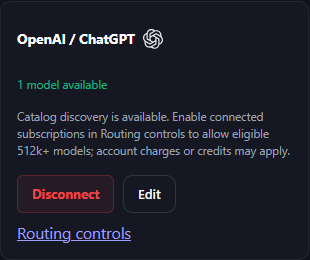
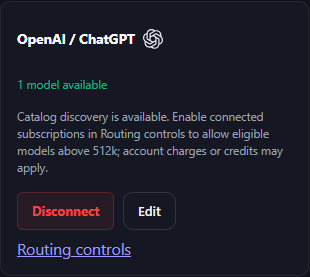
Allow general model fallback with context strictly above 512k

diff --git a/src/free_claude_code/api/admin_static/free_pool.html b/src/free_claude_code/api/admin_static/free_pool.html
@@ -6,7 +6,7 @@
 </style></head><body>
 <a href="/admin">← Back to Admin and provider keys</a>
 <h1>Routing controls</h1>
-<p>Choose allowed billing categories and fallback priority. Every route requires known tool support, at least 512,000 context tokens and room for your request. Failed providers cool down; the next eligible provider takes over before output starts.</p>
+<p>Choose allowed billing categories and fallback priority. Every route requires known tool support, more than 512,000 context tokens and room for your request. Failed providers cool down; the next eligible provider takes over before output starts.</p>
 <section class="card" aria-labelledby="activityTitle" style="margin:20px 0">
 <h2 id="activityTitle">Actual gateway route</h2>
 <h3>Last successful route</h3><p id="lastRoute">No successful request recorded since server restart.</p>
@@ -28,7 +28,7 @@
 <section class="card" id="routingPolicy" aria-labelledby="policyTitle">
 <h2 id="policyTitle">Paid access and priority</h2>
 <label style="max-width:none"><input type="checkbox" id="allowSubscriptions">Allow connected subscriptions (ChatGPT / GitHub Copilot)</label>
-<p>Uses the connected account's allowance or purchased credits. A successful login does not guarantee a 512k+ model.</p>
+<p>Uses the connected account's allowance or purchased credits. A successful login does not guarantee a model above 512k.</p>
 <label style="max-width:none"><input type="checkbox" id="allowPaidApi">Allow paid API routes</label>
 <p>Requests can incur provider charges. Set spending limits with each provider; this gateway has no monetary budget cap. These switches do not purchase credits or bypass account limits.</p>
 <label>Billing order <select id="billingOrder">
@@ -58,7 +58,7 @@
 <p id="note"></p><footer>Catalog checks do not guarantee availability or model quality. Each service controls its own quotas and data policy. Credentials are entered in Providers and stored using the installation’s protected storage. Refreshing this page does not reset a provider’s quota.</footer>
 <script>
 const el=id=>document.getElementById(id);
-const labels={MISSING_KEY:'Add API key',CONFIRM_FREE_ACCOUNT:'Confirm free account',ELIGIBLE:'Eligible',COOLDOWN:'Cooling down',NO_ELIGIBLE_MODELS:'No eligible 512k+ models',DISCOVERY_REJECTED:'Catalog access rejected',DISCOVERY_UNAVAILABLE:'Catalog unavailable',DISABLED:'Billing category disabled',CONNECT_ACCOUNT:'Connect account',EXCLUDED:'Excluded by your preference'};
+const labels={MISSING_KEY:'Add API key',CONFIRM_FREE_ACCOUNT:'Confirm free account',ELIGIBLE:'Eligible',COOLDOWN:'Cooling down',NO_ELIGIBLE_MODELS:'No eligible models above 512k',DISCOVERY_REJECTED:'Catalog access rejected',DISCOVERY_UNAVAILABLE:'Catalog unavailable',DISABLED:'Billing category disabled',CONNECT_ACCOUNT:'Connect account',EXCLUDED:'Excluded by your preference'};
 function node(tag,text){const n=document.createElement(tag);n.textContent=text;return n}
 const healthLabels={VERIFIED:'Verified recently',FAILED:'Failed / blocked',UNTESTED:'Not inference-tested',STALE:'Check expired',RECHECK_DUE:'Recheck due'};
 function healthBadge(health={state:'UNTESTED'}){const s=health.state||'UNTESTED',n=node('span',healthLabels[s]||s);n.className='health health-'+(s==='VERIFIED'?'green':s==='FAILED'?'red':'amber');return n}
@@ -98,7 +98,7 @@ function render(data){
   if(p.http_status)state.append(node('small','HTTP '+p.http_status));
   if(p.message)state.append(node('small',p.message));
   if(p.coverage==='PARTIAL')state.append(node('small','Partial catalog coverage'));
-  if(p.below_context_minimum)state.append(node('small',p.below_context_minimum+' catalog models have default context below 512,000. Experimental maxima are not used.'));
+  if(p.below_context_minimum)state.append(node('small',p.below_context_minimum+' catalog models have default context at or below 512,000. Experimental maxima are not used.'));
   if((p.model_ids||[]).length){
    const d=node('details','');d.append(node('summary','Show models'));
    for(const m of p.model_details||p.model_ids.map(id=>({id}))){
@@ -117,7 +117,7 @@ function render(data){
    setup.append(label,node('small','Without this acknowledgment, the key is considered only when paid APIs are enabled. Account billing is not independently verified.'));
   }else if(p.mode==='subscription')setup.append(node('small','Connect this account in Providers and enable subscriptions above. Supports Messages and Responses; Chat Completions uses API-key routes.'));
   else if(p.mode==='paid_api')setup.append(node('small','Save an API key in Providers and enable paid APIs above. Account charges or credits may apply.'));
-  else setup.append(node('small',p.mode==='local'?'Load a local tool-capable model with at least 512,000 context tokens.':p.state==='MISSING_KEY'?'Add your key in Providers. Models are selected automatically.':'Models are separated by free or paid eligibility and your saved routing policy.'));
+  else setup.append(node('small',p.mode==='local'?'Load a local tool-capable model with more than 512,000 context tokens.':p.state==='MISSING_KEY'?'Add your key in Providers. Models are selected automatically.':'Models are separated by free or paid eligibility and your saved routing policy.'));
   const a=node('a','Provider documentation');a.href=p.source;a.target='_blank';a.rel='noopener noreferrer';setup.append(document.createElement('br'),a);
   tr.append(name,state,models,setup);el('rows').append(tr);
  }

diff --git a/src/free_claude_code/api/admin_static/admin.js b/src/free_claude_code/api/admin_static/admin.js
@@ -397,9 +397,9 @@ function updateProviderCard(provider) {
     const paidApi = provider.automatic_routing_policy === 'paid_api';
     const enabled = subscription ? state.config.allow_subscription_models : paidApi ? state.config.allow_paid_api_models : false;
     policyNote.textContent = enabled
-      ? 'Allowed for automatic routing when a tool-capable 512k+ model and account capacity are available. Account charges or credits may apply.'
+      ? 'Allowed for automatic routing when a tool-capable model above 512k and account capacity are available. Account charges or credits may apply.'
       : subscription || paidApi
-        ? 'Catalog discovery is available. Enable ' + (subscription ? 'connected subscriptions' : 'paid APIs') + ' in Routing controls to allow eligible 512k+ models; account charges or credits may apply.'
+        ? 'Catalog discovery is available. Enable ' + (subscription ? 'connected subscriptions' : 'paid APIs') + ' in Routing controls to allow eligible models above 512k; account charges or credits may apply.'
         : 'Catalog discovery only. This provider is not included in automatic routing.';
     card.insertBefore(policyNote, actions);
     if (subscription || paidApi) {

diff --git a/src/free_claude_code/application/free_pool.py b/src/free_claude_code/application/free_pool.py
@@ -15,6 +15,7 @@ from urllib.parse import urlencode, urljoin, urlsplit
 import httpx
 
 from free_claude_code.application.route_health import VERIFIED_TTL_SECONDS, RouteHealth
+from free_claude_code.config.free_mode import MIN_CONTEXT_TOKENS
 from free_claude_code.config.free_model_preferences import (
     FREE_MODEL_FAMILIES,
     free_model_family,
@@ -44,7 +45,6 @@ from free_claude_code.core.private_storage import (
 )
 
 CATALOG_TTL = 300
-MIN_CONTEXT_TOKENS = 512000
 MAX_CATALOG_BYTES = 16 * 1024 * 1024
 
 
@@ -889,7 +889,7 @@ class AutomaticFreePool:
                     or settings.allow_subscription_models
                     else "free"
                 )
-                + " provider with at least 512,000 context tokens is currently available for this request."
+                + " provider with more than 512,000 context tokens is currently available for this request."
                 + detail
                 + self.availability_summary(settings)
                 + " Open Admin > Routing controls for credentials, priority, capabilities and cooldowns."
@@ -936,7 +936,7 @@ class AutomaticFreePool:
             if reasons:
                 details.append(provider + ": " + ", ".join(sorted(reasons)))
             elif report.get("below_context_minimum"):
-                details.append(provider + ": default context below 512,000")
+                details.append(provider + ": default context at or below 512,000")
             elif report["state"] == "CONFIRM_FREE_ACCOUNT":
                 details.append(provider + ": free-account confirmation missing")
             elif report["state"].startswith("DISCOVERY_"):
@@ -1189,5 +1189,5 @@ class AutomaticFreePool:
             "last_success_details": self._last_success_details,
             "latest_attempt": self._last_attempt,
             "providers": rows,
-            "note": "Eligible means catalog and enabled billing-policy checks passed; it is not a successful inference guarantee. Free-account tiers rely on your acknowledgment. Paid APIs and subscriptions may consume allowance or purchased credits. This gateway has no monetary budget cap; configure spending controls with each provider. Every route retains the 512,000-token minimum.",
+            "note": "Eligible means catalog and enabled billing-policy checks passed; it is not a successful inference guarantee. Free-account tiers rely on your acknowledgment. Paid APIs and subscriptions may consume allowance or purchased credits. This gateway has no monetary budget cap; configure spending controls with each provider. Every route requires more than 512,000 context tokens.",
         }

diff --git a/security_tests/test_route_selection.py b/security_tests/test_route_selection.py
@@ -126,6 +126,67 @@ def app_with_storage():
     return app, store, settings
 
 
+@pytest.mark.asyncio
+@pytest.mark.parametrize(
+    "wire,provider,billing",
+    [
+        ("messages", "open_router", "zero_price"),
+        ("responses", "open_router", "zero_price"),
+        ("chat", "open_router", "zero_price"),
+        ("messages", "deepseek", "paid_api"),
+        ("responses", "deepseek", "paid_api"),
+        ("chat", "deepseek", "paid_api"),
+        ("messages", "openai", "subscription"),
+        ("responses", "openai", "subscription"),
+    ],
+)
+@pytest.mark.parametrize("preferred_context", [None, 512000])
+async def test_unpreferred_model_falls_back_only_above_512k(
+    wire, provider, billing, preferred_context
+):
+    pool = AutomaticFreePool()
+    pool.refresh = AsyncMock()
+    preferred = model(
+        provider, "deepseek-v4.1-flash", billing, context=preferred_context
+    )
+    available = model(provider, "another-catalog-model", billing, context=512001)
+    pool._catalog = (preferred, available)
+    settings = Settings(
+        allow_paid_api_models=True,
+        allow_subscription_models=True,
+        routing_selected_provider=provider,
+        routing_selected_model=preferred.model_id,
+        routing_selected_billing=preferred.billing,
+    )
+    assert await pool.select(settings, {"_fcc_wire_api": wire}) == (available,)
+
+
+def test_manual_selection_rejects_exactly_512k_and_accepts_above_it():
+    app, store, settings = app_with_storage()
+    app.state.free_pool._catalog = (
+        model("open_router", "boundary:free", context=512000),
+        model("open_router", "above:free", context=512001),
+    )
+    headers = {
+        "Authorization": "Bearer " + settings.proxy_auth_token,
+        "X-FCC-Route-Control": "1",
+    }
+    with TestClient(
+        app, base_url="http://127.0.0.1", client=("127.0.0.1", 4321)
+    ) as client:
+        body = {"mode": "selected", "provider": "open_router", "model": "boundary:free"}
+        assert (
+            client.post("/v1/routing/selection", json=body, headers=headers).status_code
+            == 400
+        )
+        body["model"] = "above:free"
+        assert (
+            client.post("/v1/routing/selection", json=body, headers=headers).status_code
+            == 200
+        )
+    assert store.read(env={}).settings.routing_selected_model == "above:free"
+
+
 def test_cli_api_authorization_persistence_restore_auto_and_credential_preservation():
     app, store, settings = app_with_storage()
     token = settings.proxy_auth_token

diff --git a/security_tests/test_free_pool.py b/security_tests/test_free_pool.py
@@ -93,7 +93,8 @@ async def test_discovery_filters_paid_and_unknown_models_then_enforces_512k(
     )
     catalogs = [
         row("large"),
-        row("exact", 512000),
+        row("exact", 512001),
+        row("boundary-excluded", 512000),
         row("small", 511999),
         row("unknown", None),
         row("paid", pricing={"prompt": 0, "completion": 1}),
@@ -112,7 +113,7 @@ async def test_discovery_filters_paid_and_unknown_models_then_enforces_512k(
 
     monkeypatch.setattr(pool, "_fetch", fetch)
     status = await pool.status(settings)
-    assert status["minimum_context_tokens"] == 512000
+    assert status["minimum_context_tokens"] == 512001
     assert status["eligible_models"] == 2
     assert {m.model_id for m in pool._catalog} == {"large", "exact"}
     assert (
@@ -182,7 +183,7 @@ async def test_context_vision_request_fit_and_provider_diversity():
         settings, {"messages": [{"role": "user", "content": "hi"}]}
     )
     assert len(selected) == 12 and selected[1].provider_id == "gemini"
-    assert all(m.context >= 512000 for m in selected)
+    assert all(m.context > 512000 for m in selected)
     selected = await pool.select(
         settings,
         {
@@ -671,7 +672,7 @@ async def test_mistral_primary_limits_override_secondary_capabilities(monkeypatc
                 "data": [
                     {
                         "id": "primary-large",
-                        "max_context_length": 512000,
+                        "max_context_length": 512001,
                         "max_output_tokens": 4096,
                         "capabilities": {"function_calling": True},
                     },
@@ -696,6 +697,6 @@ async def test_mistral_primary_limits_override_secondary_capabilities(monkeypatc
     )
     assert (
         len(models) == 1
-        and models[0].context == 512000
+        and models[0].context == 512001
         and models[0].output_limit == 4096
     )

diff --git a/src/free_claude_code/config/admin/manifest.py b/src/free_claude_code/config/admin/manifest.py
@@ -115,7 +115,7 @@ _NON_PROVIDER_FIELDS: tuple[ConfigFieldSpec, ...] = (
         "models",
         "boolean",
         settings_attr="allow_subscription_models",
-        description="Opt in to connected ChatGPT/Copilot allowance or credits. Account limits and charges apply. Every route still requires 512k context.",
+        description="Opt in to connected ChatGPT/Copilot allowance or credits. Account limits and charges apply. Every route still requires more than 512k context.",
     ),
     ConfigFieldSpec(
         "ALLOW_PAID_API_MODELS",
@@ -137,7 +137,7 @@ _NON_PROVIDER_FIELDS: tuple[ConfigFieldSpec, ...] = (
         "Preferred free model order",
         "models",
         settings_attr="free_model_priority",
-        description="Free routes only: deepseek-v4.1-flash,kimi-k3,qwen3.8-max,glm-5.3-flash. Reorder or remove families; use none to disable preferences. Available preferred models precede provider order and last success; other eligible free models follow. Requires live free eligibility, tools and 512k+ context.",
+        description="Free routes only: deepseek-v4.1-flash,kimi-k3,qwen3.8-max,glm-5.3-flash. Reorder or remove families; use none to disable preferences. Within each health tier, preferred models precede provider order and last success; other eligible free models follow. Requires live free eligibility, tools and more than 512k context.",
     ),
     ConfigFieldSpec(
         "ROUTING_PROVIDER_PRIORITY",

diff --git a/security_tests/test_paid_routing.py b/security_tests/test_paid_routing.py
@@ -164,7 +164,7 @@ async def test_outage_is_not_misreported_as_rate_limit(monkeypatch):
         await pool.select(settings, {})
     assert error.value.status_code == 503
     assert "deepseek: temporary model outage" in error.value.message
-    assert "openai: default context below 512,000" in error.value.message
+    assert "openai: default context at or below 512,000" in error.value.message
 
 
 def model(provider, name, billing="paid_api", context=1048576):
@@ -197,7 +197,7 @@ async def test_opt_in_priority_disable_and_context_floor(monkeypatch):
         "openai",
         "open_router",
     ]
-    assert all(m.context >= 512000 for m in chosen)
+    assert all(m.context > 512000 for m in chosen)
     pool.record_success(chosen[-1])
     assert (await pool.select(settings, {}))[0].provider_id == "commandcode"
     disabled = settings.model_copy(update={"routing_disabled_providers": "commandcode"})
@@ -268,7 +268,7 @@ async def test_connected_catalog_cannot_promote_small_or_unknown_context(monkeyp
                 ),
                 ProviderModelInfo("unknown", supports_tools=True),
                 ProviderModelInfo(
-                    "large", context_window_tokens=512000, supports_tools=True
+                    "large", context_window_tokens=512001, supports_tools=True
                 ),
             )
         ),

diff --git a/security_tests/browser_smoke.py b/security_tests/browser_smoke.py
@@ -391,7 +391,7 @@ def main():
                             "available_free_routes": [],
                         }
                     ],
-                    "minimum_context_tokens": 512000,
+                    "minimum_context_tokens": 512001,
                     "refreshed_at": "2026-09-20T08:00:00+00:00",
                     "eligible_models": 2,
                     "health_ttl_seconds": 900,
@@ -401,7 +401,7 @@ def main():
                         "provider": "gemini",
                         "model": "synthetic-512k",
                         "billing": "free",
-                        "context_tokens": 512000,
+                        "context_tokens": 512001,
                         "state": "succeeded",
                         "finished_at": "2026-09-20T08:00:00+00:00",
                     },
@@ -451,7 +451,7 @@ def main():
                             "model_details": [
                                 {
                                     "id": "synthetic-512k",
-                                    "context_tokens": 512000,
+                                    "context_tokens": 512001,
                                     "billing": "free",
                                     "available": True,
                                     "health": {"state": "UNTESTED"},

diff --git a/src/free_claude_code/application/model_catalog.py b/src/free_claude_code/application/model_catalog.py
@@ -4,6 +4,7 @@ from collections.abc import Sequence
 from dataclasses import dataclass
 from typing import TYPE_CHECKING
 
+from free_claude_code.config.free_mode import MIN_CONTEXT_TOKENS
 from free_claude_code.config.model_refs import (
     configured_chat_model_refs,
     split_provider_model_ref,
@@ -55,9 +56,9 @@ def read_model_catalog(
         model = CatalogModel(
             wire_slug=ref,
             provider_model_ref=ref,
-            display_name="Automatic free models (512k+ context)",
+            display_name="Automatic models (above 512k context)",
             supports_reasoning=None,
-            context_window_tokens=512000,
+            context_window_tokens=MIN_CONTEXT_TOKENS,
             max_output_tokens=8192,
         )
         return ModelCatalog(models=(model,), default_model_id=ref)

diff --git a/src/free_claude_code/api/free_pool_routes.py b/src/free_claude_code/api/free_pool_routes.py
@@ -7,6 +7,7 @@ from fastapi import APIRouter, Depends, HTTPException, Request
 from fastapi.responses import HTMLResponse
 from pydantic import BaseModel, ConfigDict, Field, StrictBool, model_validator
 
+from free_claude_code.config.free_mode import MIN_CONTEXT_TOKENS
 from free_claude_code.core.free_accounts import FreeAccountConfirmations
 
 from .admin_security import require_loopback_admin
@@ -59,7 +60,7 @@ async def apply_route_selection(body: RouteSelectionPayload, request: Request):
             and (body.model is None or m.model_id == body.model)
             and m.tools
             and m.context is not None
-            and m.context >= 512000
+            and m.context >= MIN_CONTEXT_TOKENS
             for m in pool._catalog
         ):
             raise HTTPException(

diff --git a/tests/application/test_model_catalog.py b/tests/application/test_model_catalog.py
@@ -12,6 +12,7 @@ from free_claude_code.config.settings import Settings
 
 def test_catalog_sorts_components_and_preserves_exact_identity_and_default():
     settings = Settings.model_construct(
+        auto_free_models=False,
         model="open_router/Zulu",
         model_fable=None,
         model_opus=None,
@@ -59,6 +60,7 @@ def test_catalog_sorts_components_and_preserves_exact_identity_and_default():
 
 def test_catalog_retains_configured_models_and_enriches_each_reference_once():
     settings = Settings.model_construct(
+        auto_free_models=False,
         model="open_router/shared",
         model_opus="open_router/shared",
         model_fable=None,

diff --git a/src/free_claude_code/cli/route_control.py b/src/free_claude_code/cli/route_control.py
@@ -36,7 +36,9 @@ def print_status(data):
         )
     else:
         print("Automatic selection")
-    print("Automatic fallback: always enabled. Minimum context: 512,000 tokens.")
+    print(
+        "Automatic fallback: always enabled. Required context: more than 512,000 tokens."
+    )
     print(
         "Billing order: " + " > ".join(map(display, data.get("billing_priority", [])))
     )
